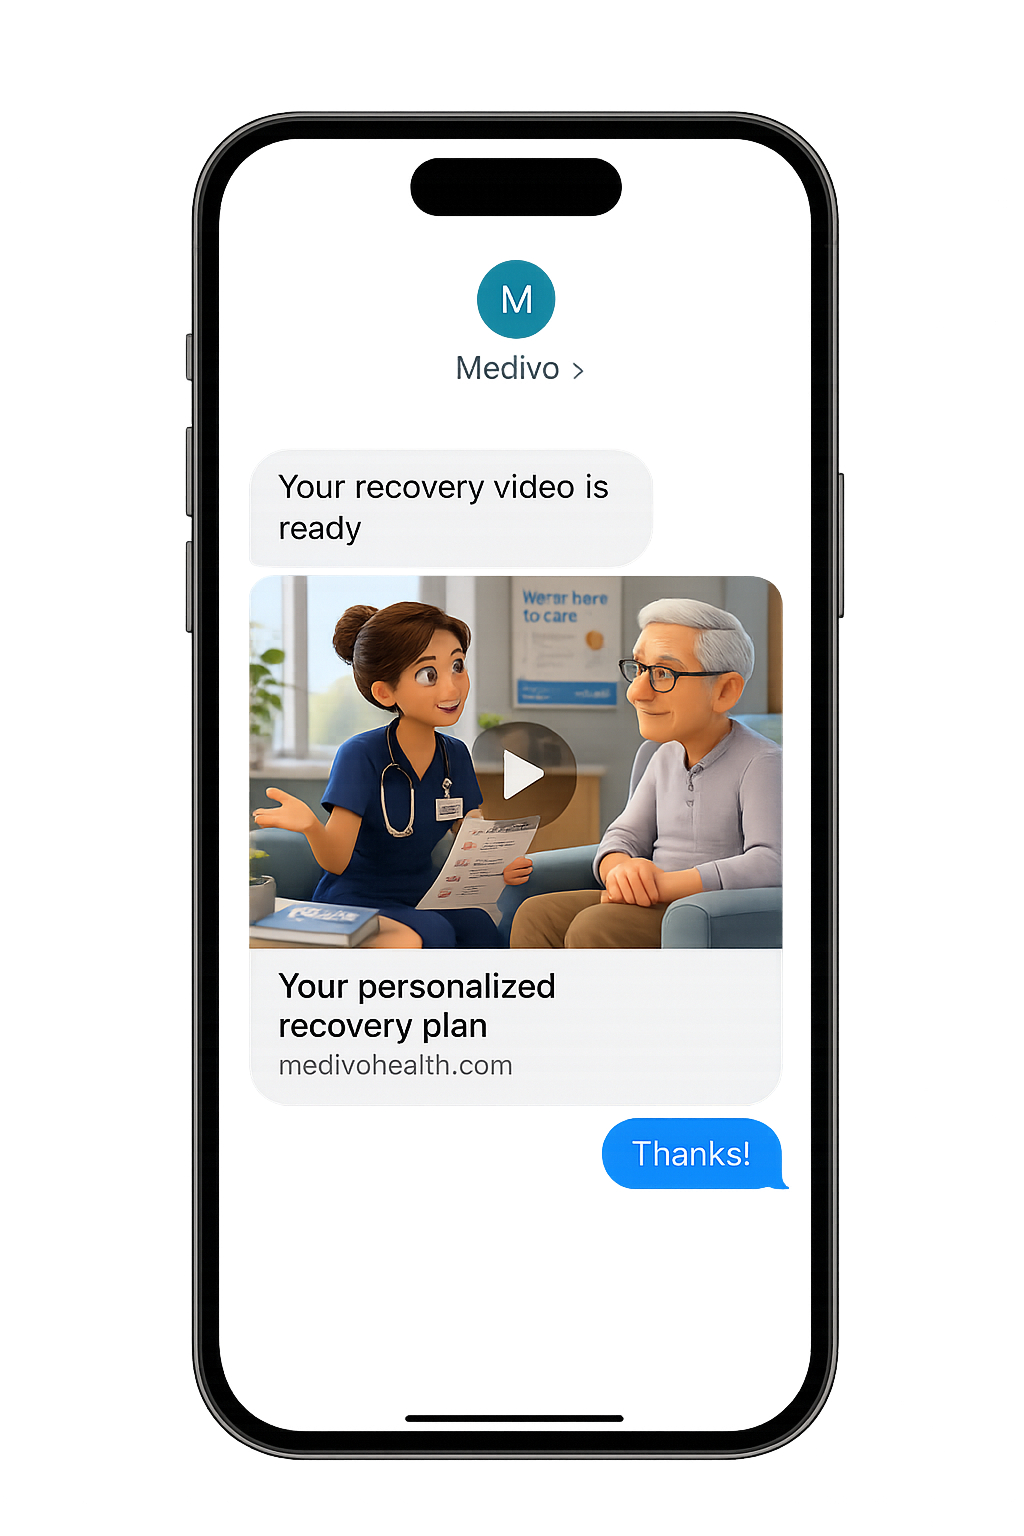
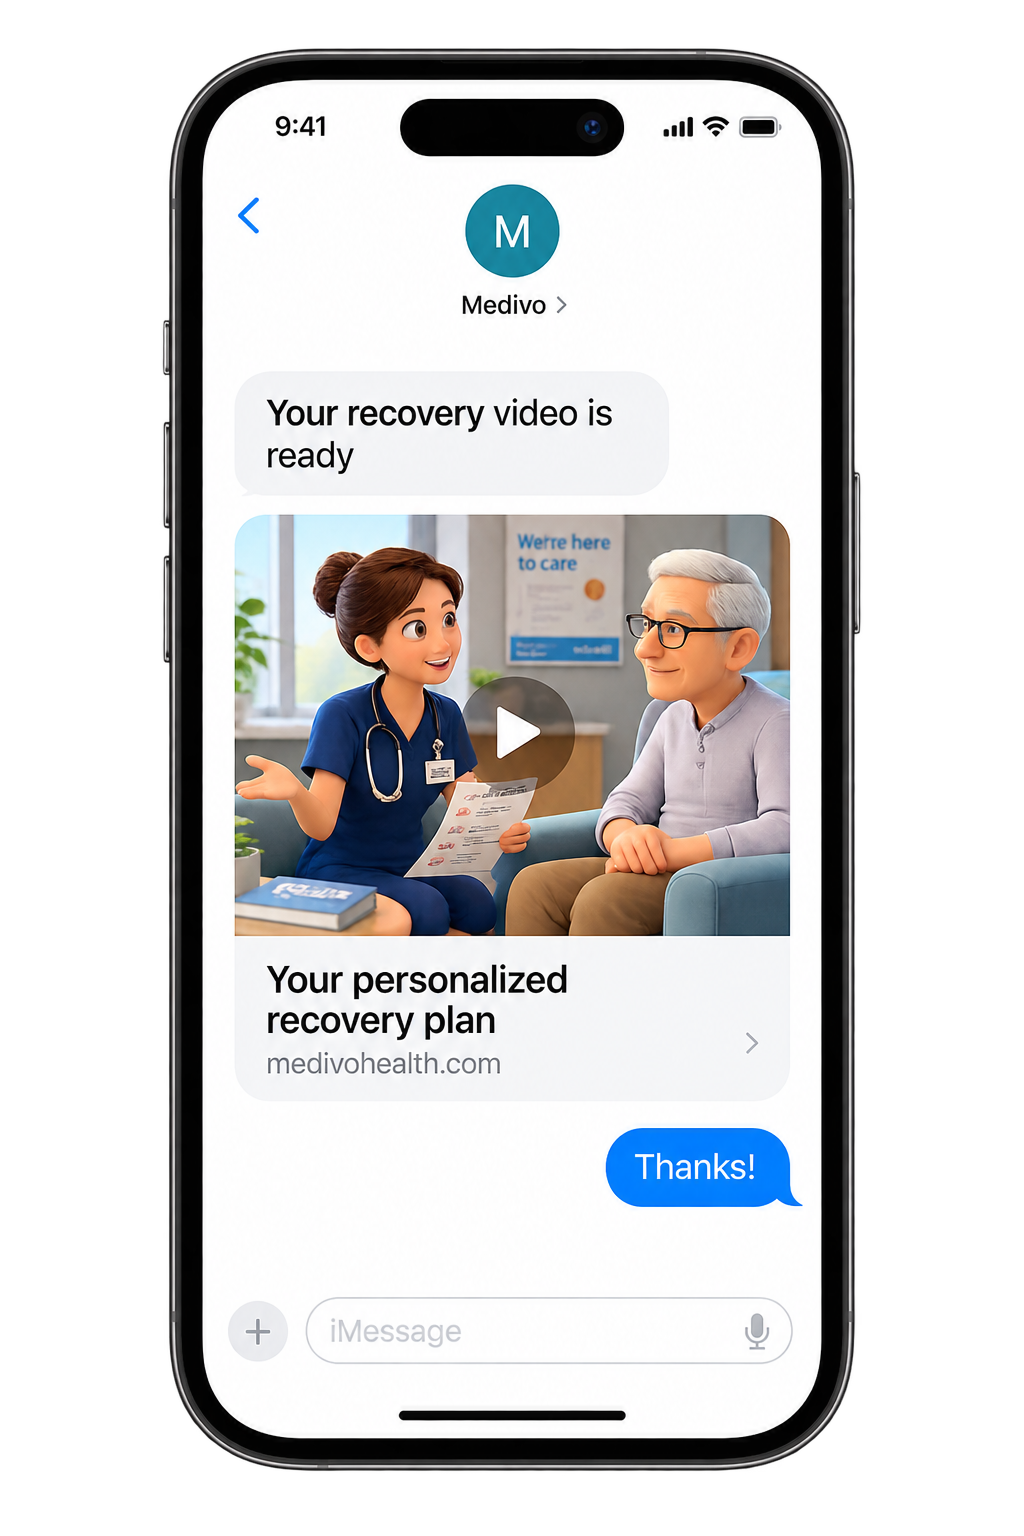
Update deliver workflow image

diff --git a/app/globals.css b/app/globals.css
@@ -132,7 +132,7 @@ button{font:inherit}
 .generation-steps p{display:flex;align-items:center;gap:10px;margin:0;font-size:14px;color:var(--muted)}
 .generation-steps b{width:8px;height:8px;border-radius:50%;background:#89d7d3}
 .scene-deliver{inset:26px}
-.scene-deliver img{object-fit:contain;object-position:center;filter:drop-shadow(0 30px 55px rgba(16,37,44,.22));transform:scale(.72)}
+.scene-deliver img{inset:auto!important;left:50%!important;top:50%!important;width:auto!important;height:min(84%,520px)!important;max-width:82%!important;object-fit:contain;object-position:center;filter:drop-shadow(0 30px 55px rgba(16,37,44,.22));transform:translate(-50%,-50%)}
 .step-indicator{position:absolute;right:28px;display:flex;flex-direction:column;gap:11px}
 .step-indicator button{border:0;background:transparent;padding:4px;cursor:pointer}
 .step-indicator i{display:block;width:2px;height:24px;background:rgba(16,37,44,.22);transition:.3s}
